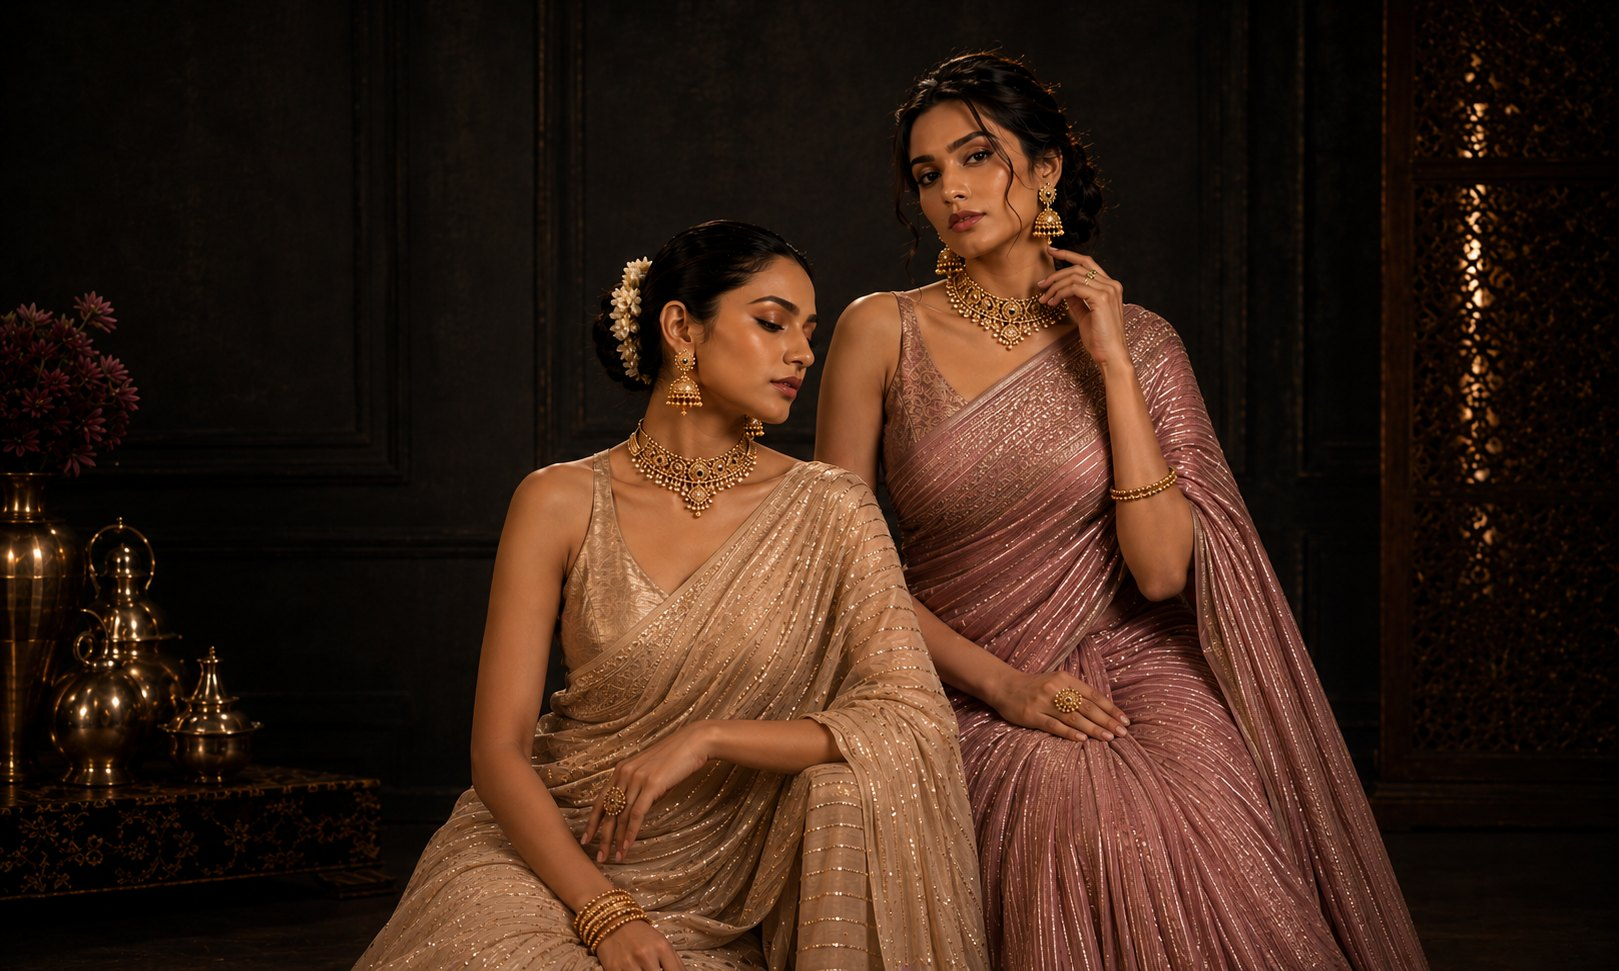
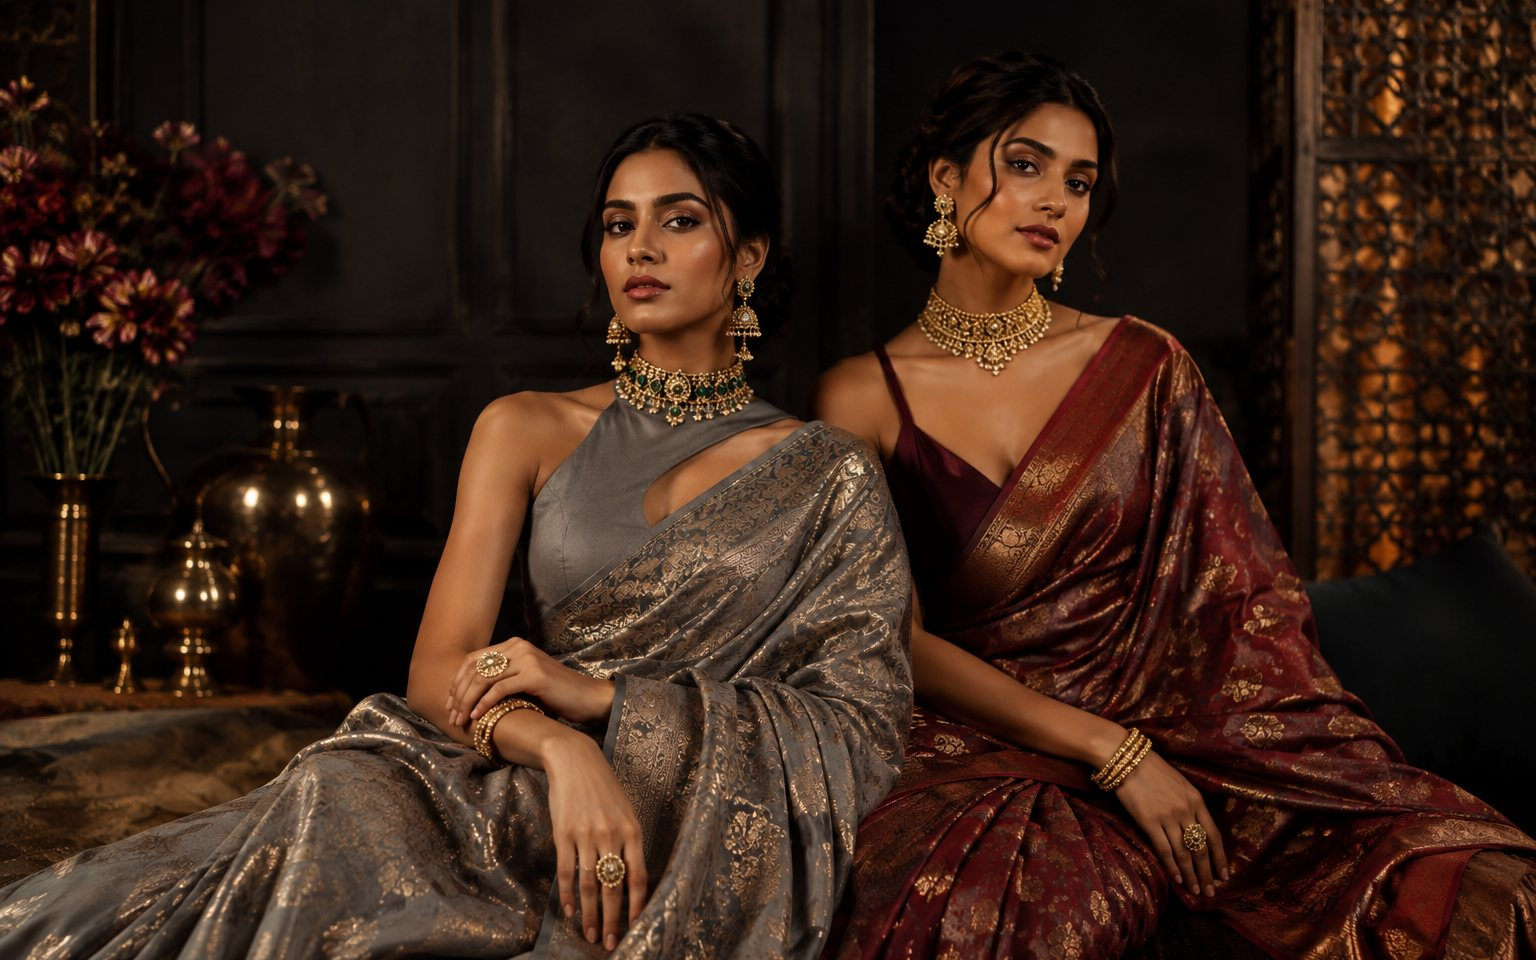
Artwork: replace placeholders with the Figma photography
Source images pulled from the Vastra Veda Figma file, centre-cropped to each
slot's aspect ratio and saved as progressive JPEG (1.4MB for all nine):

  hero-1  grey + maroon duo      1536x960   (matches the hero frame)
  hero-2  loom / yarn            1200x750   (pairs with "woven by hand")
  promo   beige + pink duo        894x971   (matches the promo frame)
  cat-1   Kanjivaram, maroon      831x1448
  cat-2   Banarasi, green         633x1103
  cat-3   Organza, pink floral    882x1537
  cat-4   Chiffon, blush sheer    882x1537
  cat-5   Tussar Silk, navy       755x1315
  cat-6   Linen, maroon           720x1253

Superseded .svg placeholders deleted; product.svg stays as the post fallback.
Intro slide 3 is off until a third landscape photograph exists — its
Customizer fields still work, so setting a headline switches it back on.

Claude-Session: https://claude.ai/code/session_01BBxw2Dbk8PyacVCvM36V7g

diff --git a/inc/template-tags.php b/inc/template-tags.php
@@ -101,7 +101,9 @@ function vv_hero_defaults() {
 	return array(
 		1 => "TRADITION *and*\nMODERN GRACE\n*in* EVERY DRAPE",
 		2 => "WOVEN *by* HAND\nWORN *with*\nINTENTION",
-		3 => "HEIRLOOM *silks*\nFOR EVERY\nNEW *beginning*",
+		/* Slide 3 is off until a third photograph exists — set a headline in
+		   Customize → 1 · Intro slider to switch it on. */
+		3 => "",
 	);
 }
 
